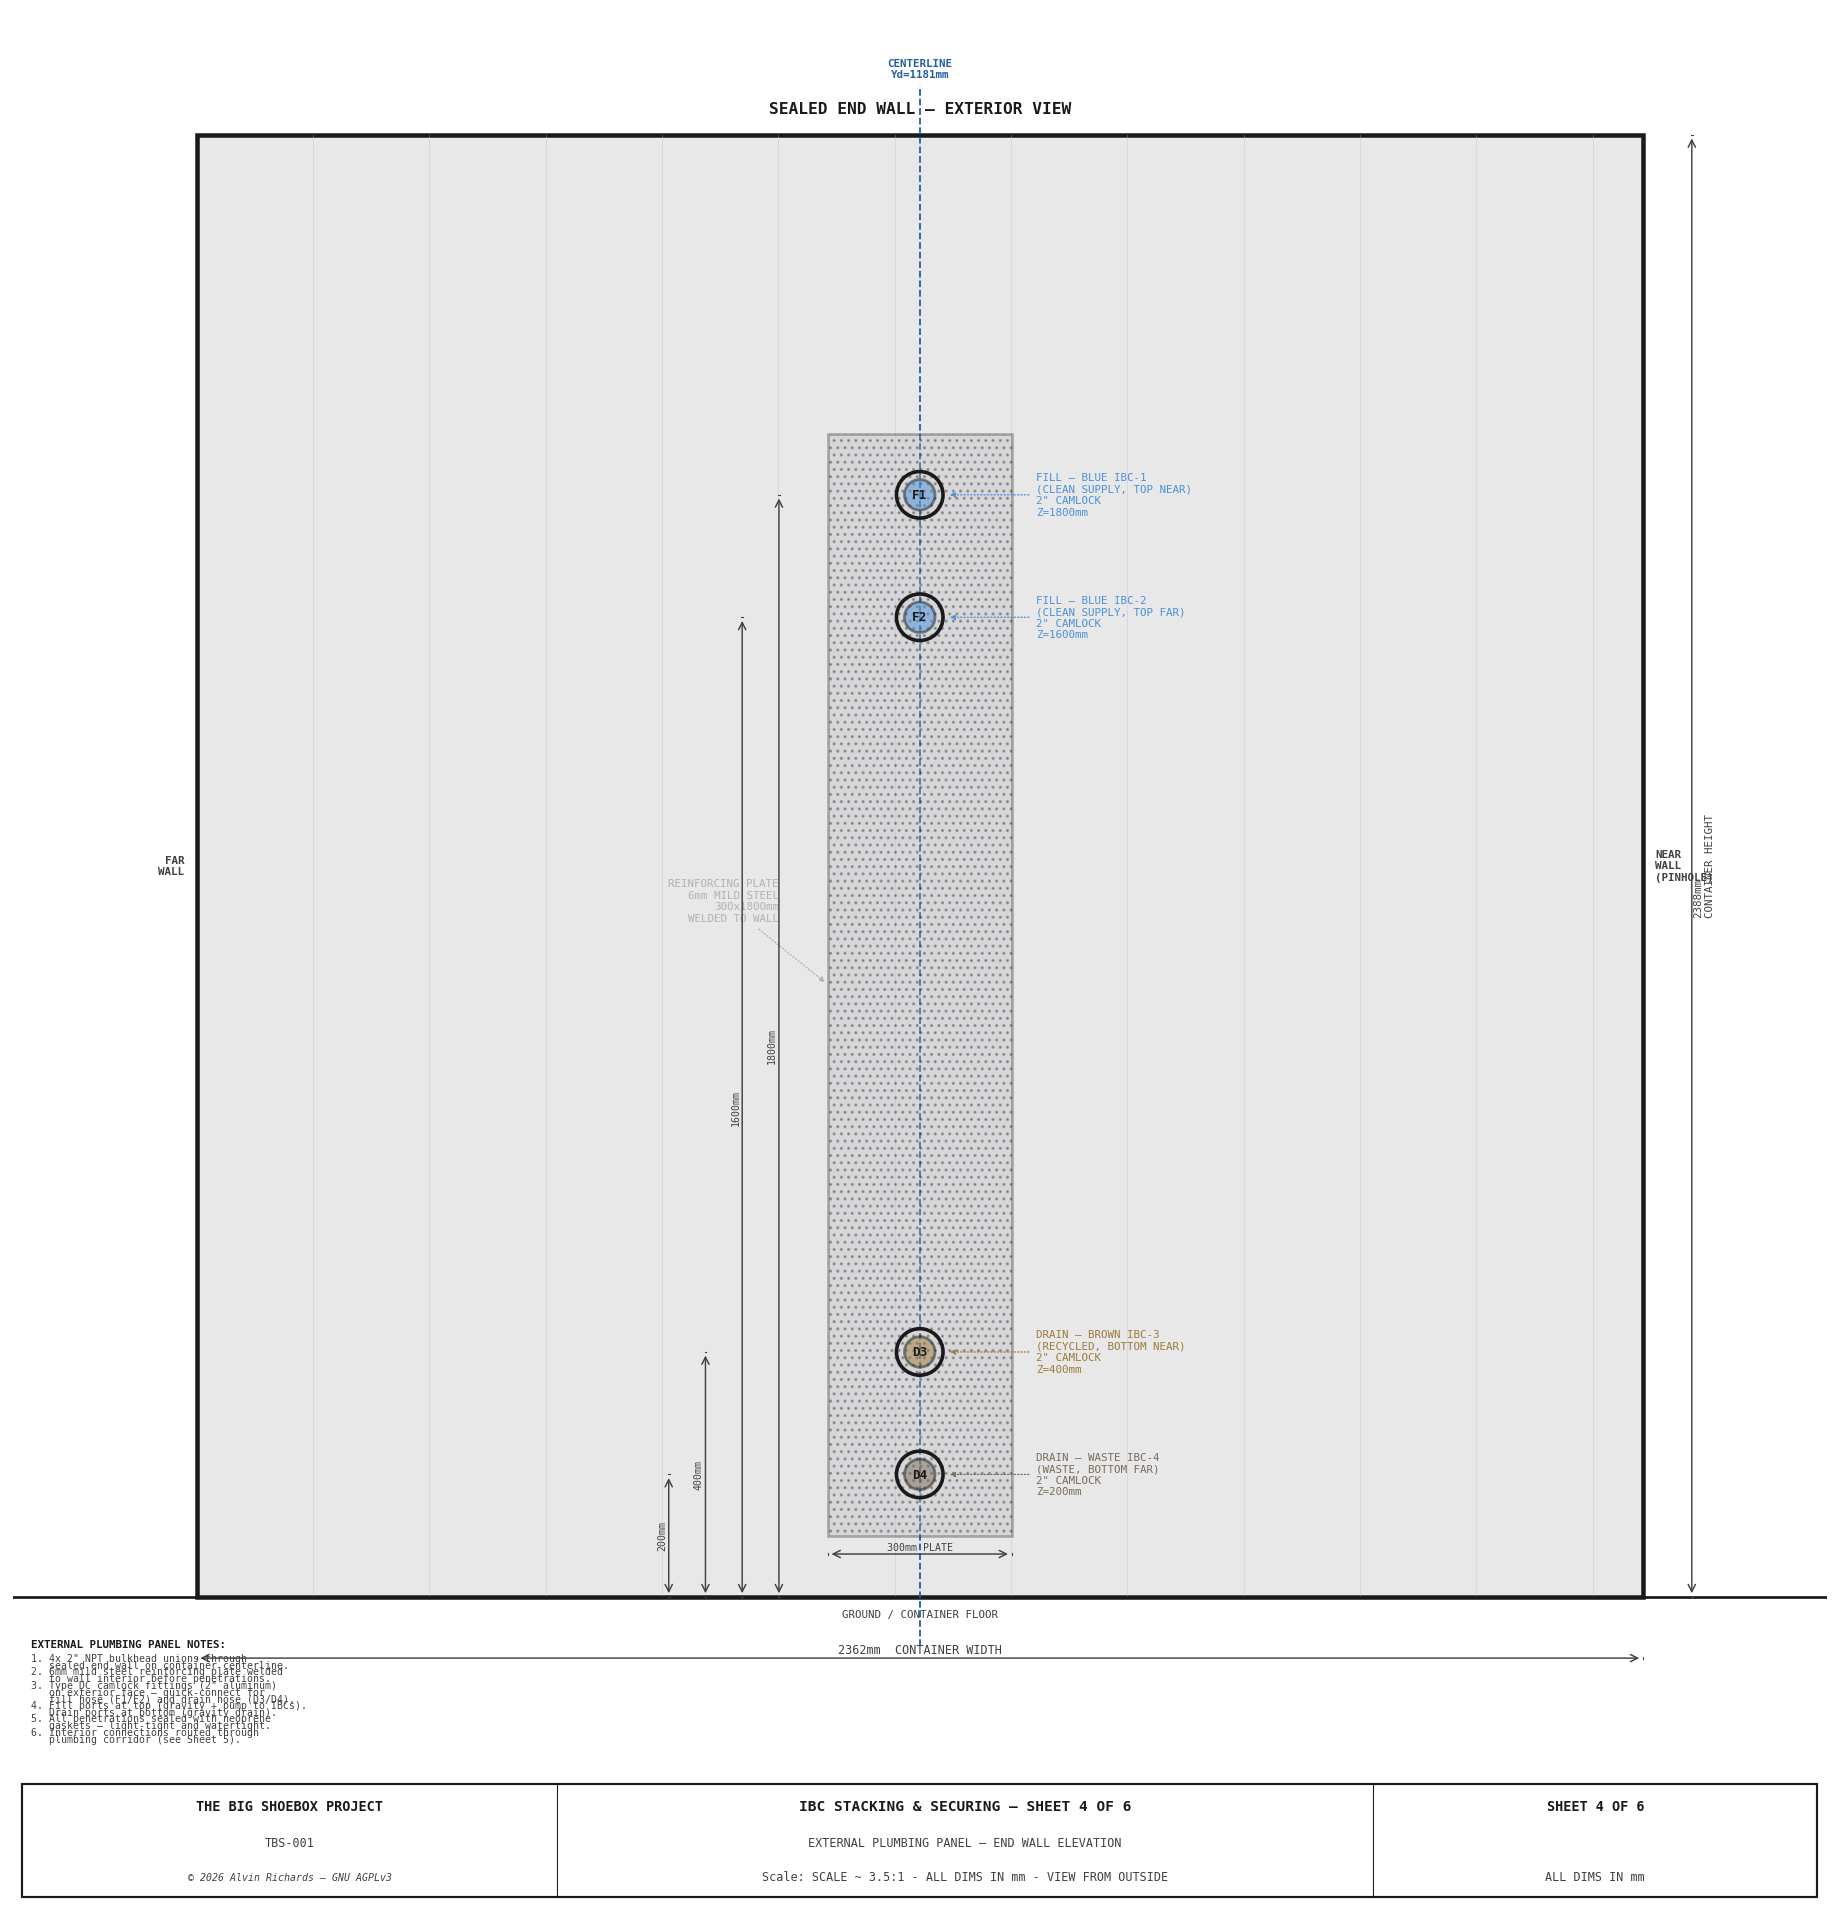
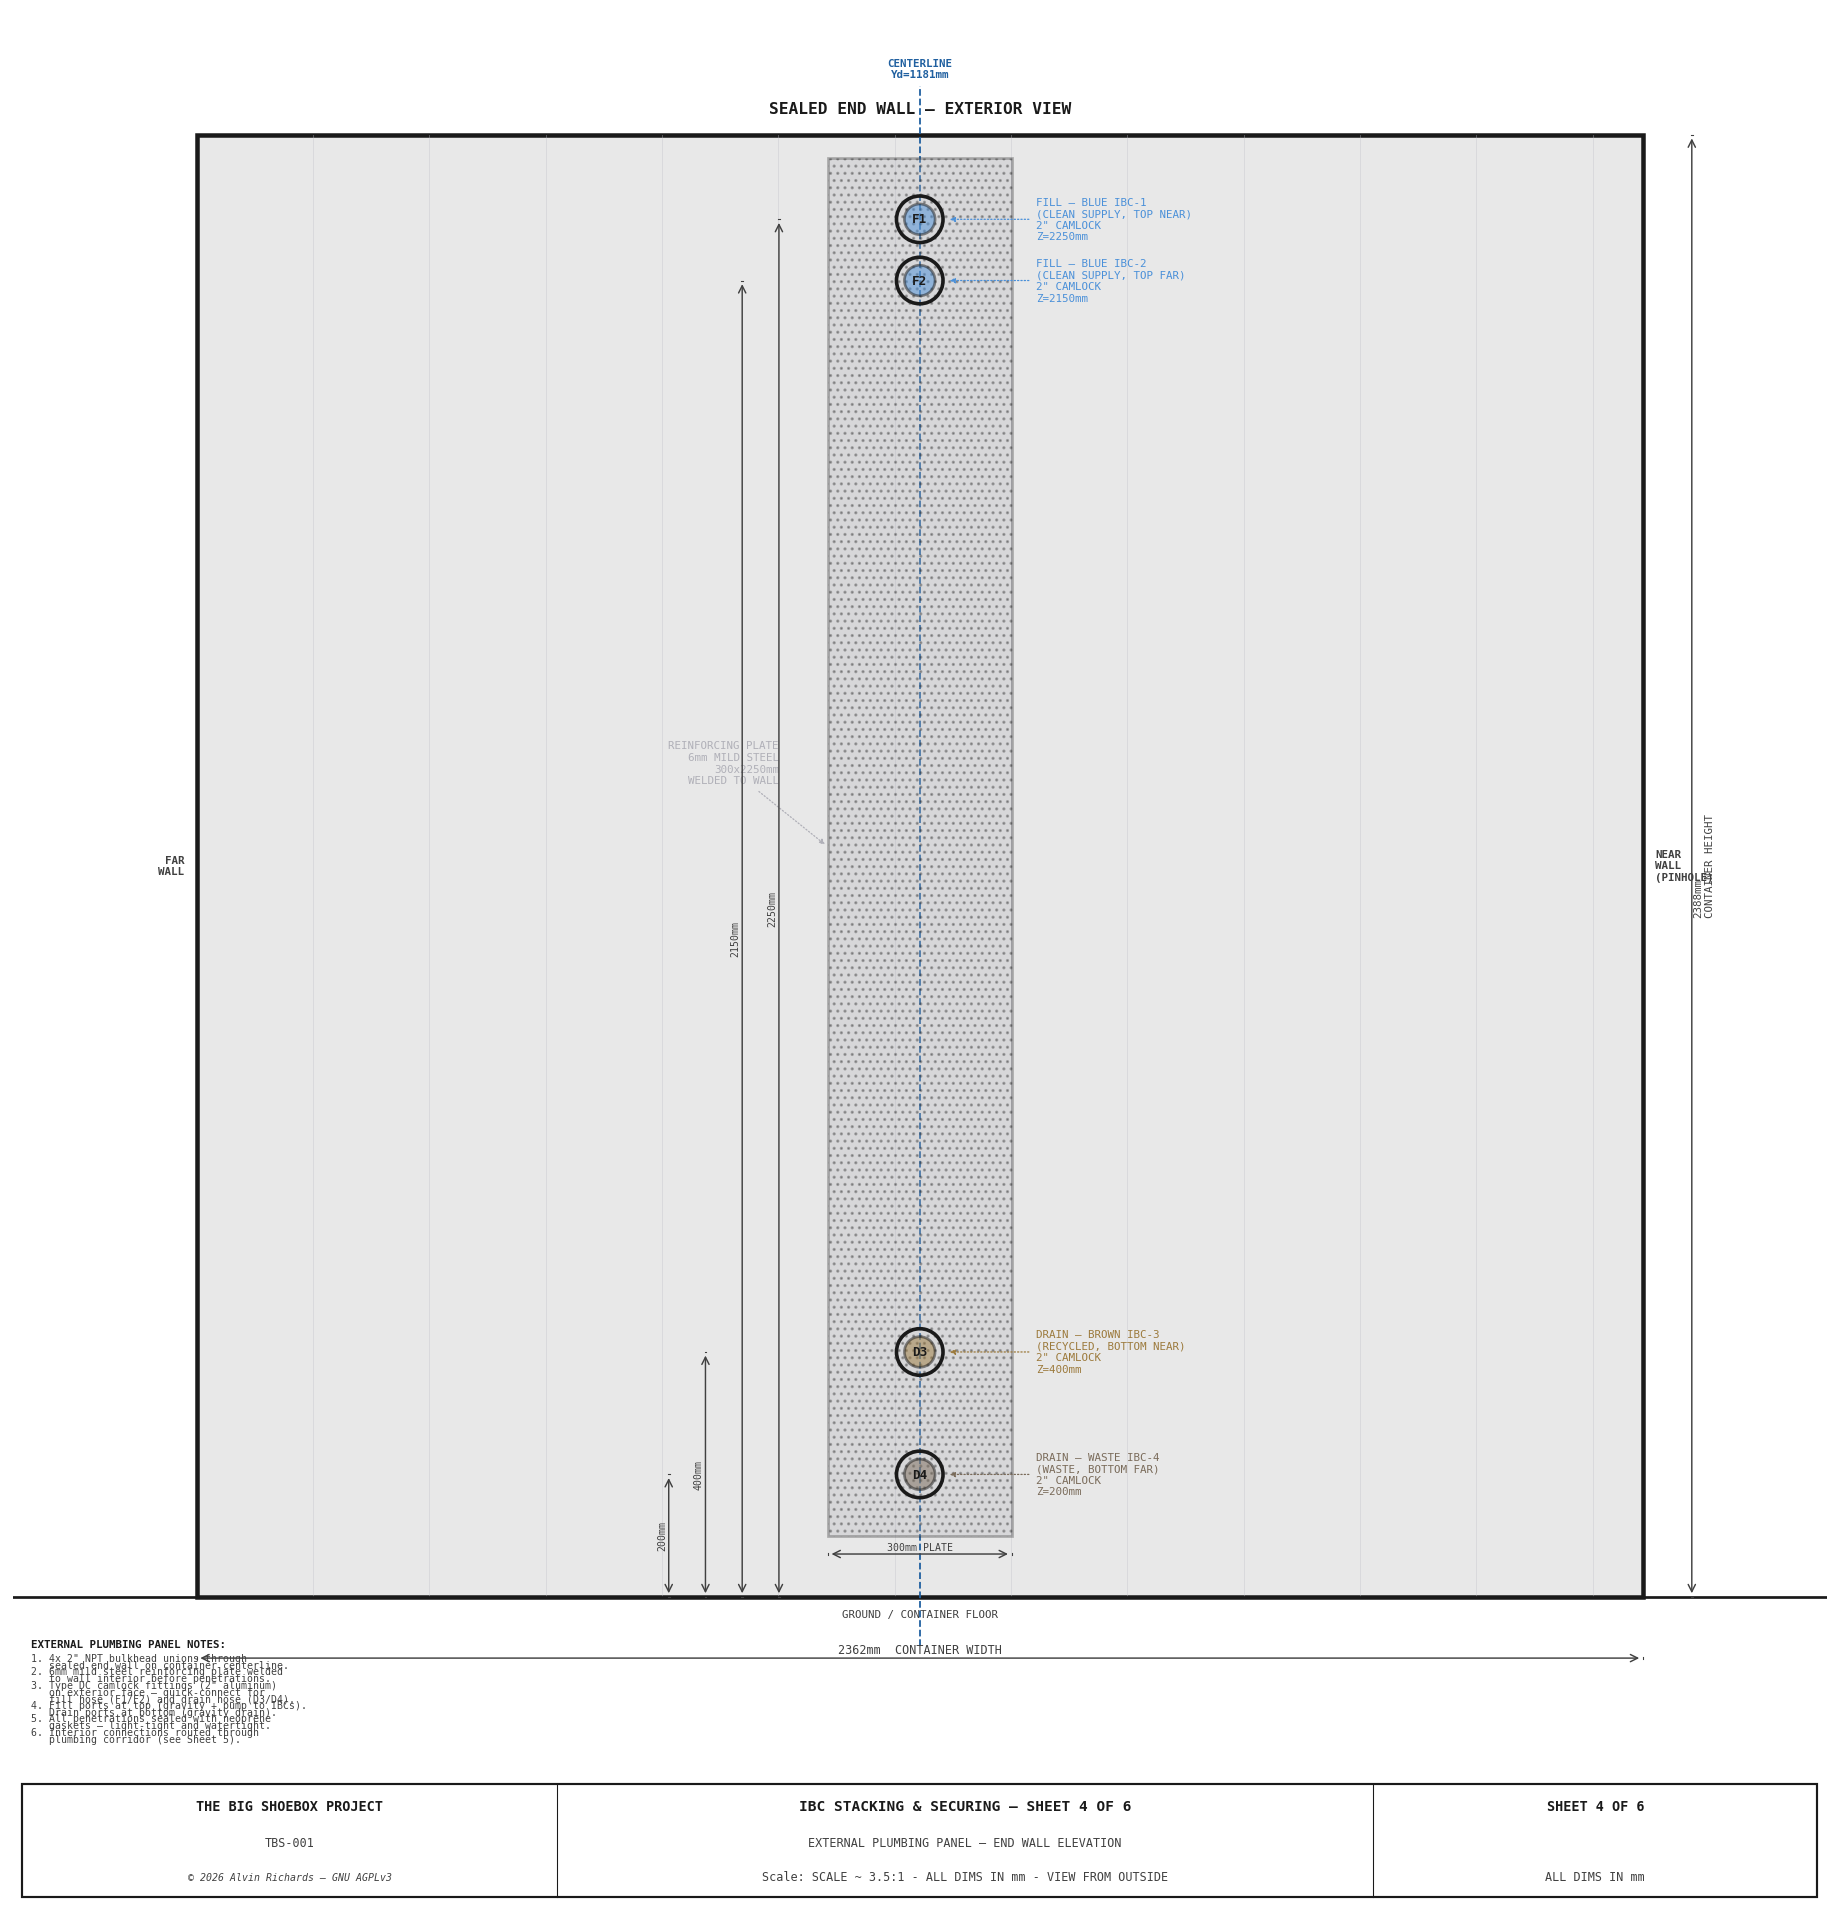
Raise fill ports above IBC tops for gravity feed
Move F1 from Z=1,800mm to Z=2,250mm and F2 from Z=1,600mm to Z=2,150mm.
Both fill ports are now above the top-tier Blue IBC top (Z=2,082mm),
enabling gravity-fed filling from external water bowser — no pump
required. Reinforcing plate extended to cover new port heights.
Drain ports unchanged (D3=400mm, D4=200mm — already gravity-fed).

diff --git a/generate_ibc_stacking_diagram.py b/generate_ibc_stacking_diagram.py
@@ -1158,7 +1158,7 @@ def sheet4():
 
     # ── Reinforcing plate ────────────────────────────────────────────────────
     plate_w = 300   # plate width (mm)
-    plate_h = 1800  # plate height — spans from below lowest port to above highest
+    plate_h = EXT_FILL_1_H - 100 + 100  # spans from below lowest port to above highest
     plate_yd = cl_yd - plate_w / 2
     plate_z = 100   # bottom edge
     ax.add_patch(Rectangle((sx(plate_yd), sy(plate_z)),
@@ -1670,7 +1670,7 @@ def sheet6():
 
     # ── Reinforcing plate on wall interior ───────────────────────────────────
     plate_w = 300
-    plate_h = 1800
+    plate_h = EXT_FILL_1_H - 100 + 100  # spans from below lowest port to above highest
     plate_yd = cl_yd - plate_w / 2
     plate_z = 100
     ax.add_patch(Rectangle((sx(plate_yd), sy(plate_z)),

diff --git a/tbs_constants.py b/tbs_constants.py
@@ -314,8 +314,8 @@ PROC_OPEN_AREA = (PROC_OPEN_X_R - PROC_OPEN_X_L) * (PROC_OPEN_YD_F - PROC_OPEN_Y
 # Flat steel reinforcing plate welded over corrugation before drilling.
 # External plumbing panel — 4 ports stacked vertically on end wall centerline
 EXT_PANEL_YD = C_WID // 2   # = 1,181mm — panel centered on container width
-EXT_FILL_1_H = 1800    # fill Blue IBC-1 port height (mm) — top tier near
-EXT_FILL_2_H = 1600    # fill Blue IBC-2 port height (mm) — top tier far
+EXT_FILL_1_H = 2250    # fill Blue IBC-1 port height (mm) — above top-tier IBC top (2,082mm), gravity feed
+EXT_FILL_2_H = 2150    # fill Blue IBC-2 port height (mm) — above top-tier IBC top, staggered for camlock clearance
 EXT_DRAIN_3_H = 400    # drain Brown IBC-3 port height (mm) — bottom tier near
 EXT_DRAIN_4_H = 200    # drain Waste IBC-4 port height (mm) — bottom tier far
 # Legacy aliases for downstream code

diff --git a/water-system-report.md b/water-system-report.md
@@ -110,7 +110,7 @@ IBC-2 (600L) ──┘                                                      │
 - ACC-01: 1-gallon pressure accumulator — smooths pump cycling, maintains pressure when pump is off
 - Low-level float switch on IBC-2 alerts operator when Blue supply is low
 - Spray bar: 3/4" HDPE tube running the width of the processing area with 1" NPT spray inlets every 600 mm for even flood distribution
-- Fill inlet: external 2" NPT bulkhead fittings with camlock on the container end wall centerline (Yd=1,181mm) — Fill Blue IBC-1 at Z=1,800mm, Fill Blue IBC-2 at Z=1,600mm — for remote resupply from water bowser or tanker (no cargo door access required)
+- Fill inlet: external 2" NPT bulkhead fittings with camlock on the container end wall centerline (Yd=1,181mm) — Fill Blue IBC-1 at Z=2,250mm, Fill Blue IBC-2 at Z=2,150mm — positioned above IBC tops (Z=2,082mm) for gravity feed, no pump required for filling. Remote resupply from water bowser or tanker (no cargo door access required)
 
 ### 3.2 Brown System — Used Water Recycling
 
@@ -303,8 +303,8 @@ All equipment clears the optical cone at every depth — shadow-free proof in [E
 
 | Port | Function | Z (mm) | Connects to |
 |------|----------|--------|-------------|
-| Fill Blue IBC-1 | Fresh water supply fill | 1,800 | IBC-1 (top, near column) |
-| Fill Blue IBC-2 | Fresh water supply fill | 1,600 | IBC-2 (top, far column) |
+| Fill Blue IBC-1 | Fresh water supply fill | 2,250 | IBC-1 (top, near column) — gravity feed |
+| Fill Blue IBC-2 | Fresh water supply fill | 2,150 | IBC-2 (top, far column) — gravity feed |
 | Drain Brown IBC-3 | Used water drain | 400 | IBC-3 (bottom, near column) |
 | Drain Waste IBC-4 | Waste water drain | 200 | IBC-4 (bottom, far column) |
 

diff --git a/engineering-diagrams.md b/engineering-diagrams.md
@@ -276,7 +276,7 @@ Source report: [Equipment Layout](equipment-layout-report.md) §5,
 **Sheet 3 — Fastening details: D-ring lashing, anti-rotation lip, access gate, strap routing**
 ![TBS-001 IBC Stacking — Sheet 3: Fastening Details](assets/ibc-stacking-sheet3.png)
 
-**Sheet 4 — External plumbing panel elevation: View from outside the container sealed end wall. 4× 2" NPT bulkhead unions stacked vertically on container centerline — fill ports (Blue IBC-1 at 1,800mm, Blue IBC-2 at 1,600mm) at top, drain ports (Brown IBC-3 at 400mm, Waste IBC-4 at 200mm) at bottom. Reinforcing plate, camlock fittings, height dimensions**
+**Sheet 4 — External plumbing panel elevation: View from outside the container sealed end wall. 4× 2" NPT bulkhead unions stacked vertically on container centerline — fill ports (Blue IBC-1 at 2,250mm, Blue IBC-2 at 2,150mm) above IBC tops for gravity feed, drain ports (Brown IBC-3 at 400mm, Waste IBC-4 at 200mm) at bottom. Reinforcing plate, camlock fittings, height dimensions**
 ![TBS-001 IBC Stacking — Sheet 4: External Plumbing Panel Elevation](assets/ibc-stacking-sheet4.png)
 
 **Sheet 5 — Internal plumbing plan view: Looking down at IBC zone showing two IBC columns with 270mm central plumbing corridor. Pipe runs from end-wall bulkhead unions through corridor to each IBC. Ball valves (V1–V4) at each IBC connection. All pipes 2" UPVC schedule 40**
